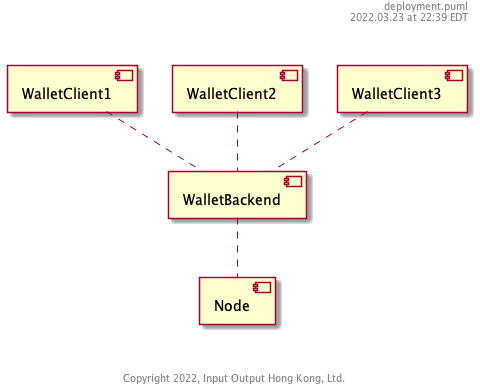
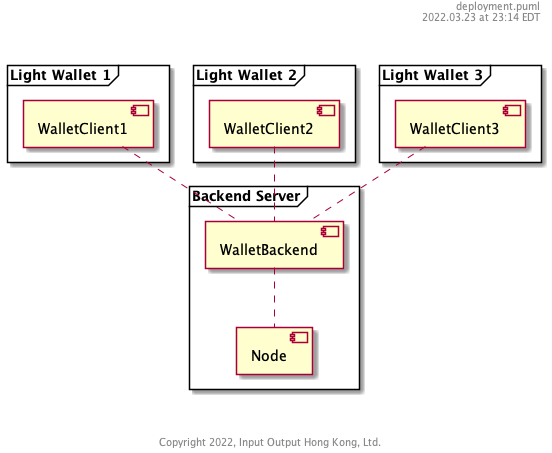
Tweaking the WalletBackend deployment diagram with frames. Adding some tool information to the repo README. Adding discussion of DDoS to the WalletBackend README.

Changed region(s): [[0.0, 0.1234, 1.0, 0.8946], [0.7188, 0.0, 1.0, 0.0617], [0.25, 0.9563, 0.7188, 0.9871]]

diff --git a/components/WalletBackend/README.md b/components/WalletBackend/README.md
@@ -4,15 +4,23 @@ Link to code repo
 
 Component description
 
-## Special Needs
+## Special Considerations
 
 ### Trust
 
-This service implicitly trusts its Node for all block data.  Clients implicitly trust their `WalletBackend` to serve them correct state and transaction sequences.  There is a risk, however, that a 
+This service implicitly trusts its Node for all block data.  
+
+Clients implicitly trust their `WalletBackend` to serve them correct state and transaction sequences.  There is a risk, however, that a malicious `WalletBackend` might intentionally mislead a client about these facts; is there some easy way for the client to verify anything it learns from the backend?
+
+The service does not trust clients, individually or in aggregate.  In particular, DDoS attacks of all kinds require mitigations.
 
 ### Incentives
 
 Is this service monetized?  Does it work for fees?  If so, how are those fees computed and levied?
+
+### Abandoned Session
+
+There is no way to firmly distinguish between a client that has been offline for a while and a client that has forever gone away.  This service maintains data -- sometimes significant amounts of data -- on behalf of its clients.  There must be some policy (configurable) that prunes clients assumed to have abanonded their sessions.  Policy factors may include the time since last contact and the amount of data and/or filter processing consumed by the client in its absence.
 
 ## Neighbors & API Dependencies
 

diff --git a/README.md b/README.md
@@ -3,3 +3,10 @@
 This is a repository of the Midnight software architecture documents.  While each component repository may have its own local documentation, this repo includes the specification of each component in standard terms and documents the flows, features, and deployments supported by the system.
 
 What are *flows*, *features*, *components* and so forth?  The essential terminology of our architectural elements are defined in [definitions](definitions.md).
+
+## Tools
+
+Documents use text-based diagrams to enable version control of key illustrations.  The tools used include:
+
+- plantUML
+- graphviz (used by plantUML)
